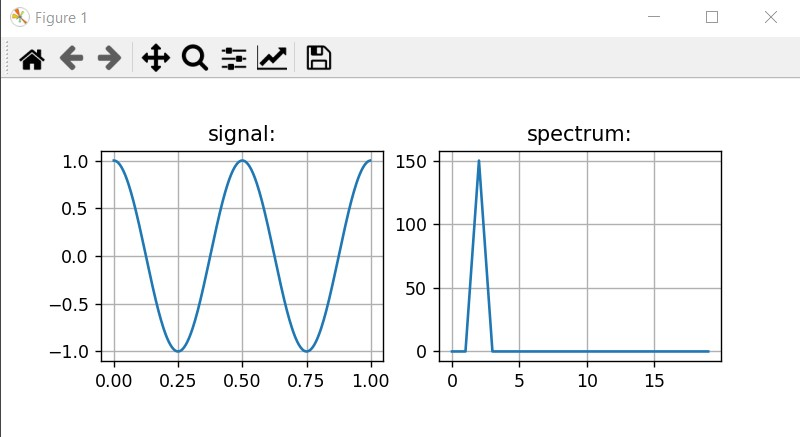
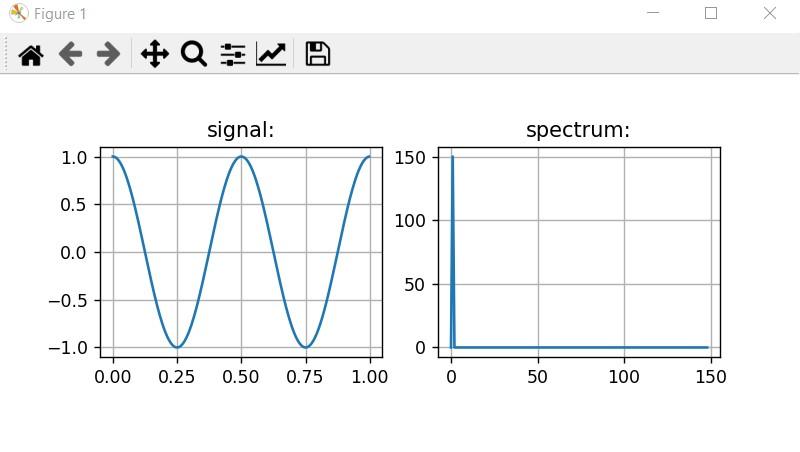
remove 2 from harmonic function

diff --git a/signal_plot.py b/signal_plot.py
@@ -7,7 +7,7 @@ from scipy.fft import fft
 
 def create_harmonic(length, points_count, frequency):
     x = np.arange(0, length, length/points_count)
-    y = np.cos(2 * math.pi * 2 * frequency * x)
+    y = np.cos(math.pi * 2 * frequency * x)
 
     return x, y
 
